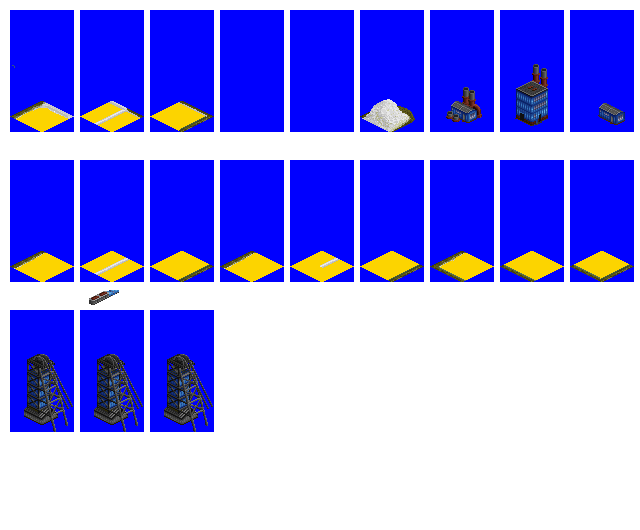
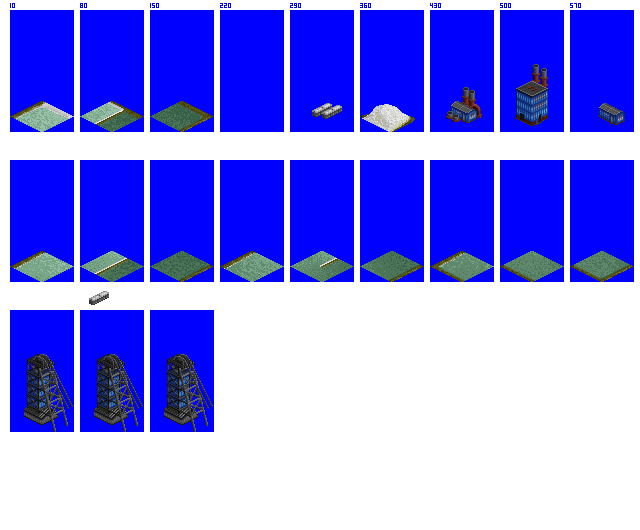
New Potash Mine graphics

diff --git a/src/industries/potash_mine.py b/src/industries/potash_mine.py
@@ -80,34 +80,55 @@ spriteset_headgear_animated = industry.add_spriteset(
     custom_sprite_selector="(animation_frame % 3)",
 )
 spriteset_hut_vents = industry.add_spriteset(
-    sprites=[(150, 10, 64, 122, -31, -90)],
+    sprites=[(430, 10, 64, 122, -31, -90)],
 )
 spriteset_mineral_pile = industry.add_spriteset(
-    sprites=[(220, 10, 64, 122, -31, -90)],
-)
-spriteset_pool_1 = industry.add_spriteset(
-    sprites=[(220, 160, 64, 122, -31, -90)],
-)
-spriteset_pool_2 = industry.add_spriteset(
-    sprites=[(290, 160, 64, 122, -31, -90)],
-)
-spriteset_pool_3 = industry.add_spriteset(
-    sprites=[(360, 160, 64, 122, -31, -90)],
-)
-spriteset_pool_4 = industry.add_spriteset(
-    sprites=[(430, 160, 64, 122, -31, -90)],
-)
-spriteset_pool_5 = industry.add_spriteset(
-    sprites=[(500, 160, 64, 122, -31, -90)],
-)
-spriteset_pool_6 = industry.add_spriteset(
-    sprites=[(570, 160, 64, 122, -31, -90)],
-)
-spriteset_winding_house = industry.add_spriteset(
     sprites=[(360, 10, 64, 122, -31, -90)],
 )
+spriteset_winding_house = industry.add_spriteset(
+    sprites=[(500, 10, 64, 122, -31, -90)],
+)
 spriteset_shed = industry.add_spriteset(
-    sprites=[(430, 10, 64, 122, -31, -90)],
+    sprites=[(570, 10, 64, 122, -31, -90)],
+)
+spriteset_containers = industry.add_spriteset(
+    sprites=[(290, 10, 64, 122, -31, -90)],
+)
+spriteset_pool_1 = industry.add_spriteset(
+    sprites=[(10, 10, 64, 122, -31, -90)],
+)
+spriteset_pool_2 = industry.add_spriteset(
+    sprites=[(80, 10, 64, 122, -31, -90)],
+)
+spriteset_pool_3 = industry.add_spriteset(
+    sprites=[(150, 10, 64, 122, -31, -90)],
+)
+spriteset_pool_4 = industry.add_spriteset(
+    sprites=[(10, 160, 64, 122, -31, -90)],
+)
+spriteset_pool_5 = industry.add_spriteset(
+    sprites=[(80, 160, 64, 122, -31, -90)],
+)
+spriteset_pool_6 = industry.add_spriteset(
+    sprites=[(150, 160, 64, 122, -31, -90)],
+)
+spriteset_pool_7 = industry.add_spriteset(
+    sprites=[(220, 160, 64, 122, -31, -90)],
+)
+spriteset_pool_8 = industry.add_spriteset(
+    sprites=[(290, 160, 64, 122, -31, -90)],
+)
+spriteset_pool_9 = industry.add_spriteset(
+    sprites=[(360, 160, 64, 122, -31, -90)],
+)
+spriteset_pool_10 = industry.add_spriteset(
+    sprites=[(430, 160, 64, 122, -31, -90)],
+)
+spriteset_pool_11 = industry.add_spriteset(
+    sprites=[(500, 160, 64, 122, -31, -90)],
+)
+spriteset_pool_12 = industry.add_spriteset(
+    sprites=[(570, 160, 64, 122, -31, -90)],
 )
 sprite_smoke_1 = industry.add_smoke_sprite(
     smoke_type="dark_smoke_small",
@@ -153,6 +174,29 @@ industry.add_spritelayout(
     add_to_object_num=5,
 )
 industry.add_spritelayout(
+    id="potash_mine_spritelayout_winding_house",
+    tile="potash_mine_tile_2",
+    ground_sprite=sprite_ground,
+    ground_overlay=sprite_ground_overlay,
+    building_sprites=[spriteset_winding_house],
+    smoke_sprites=[sprite_smoke_1, sprite_smoke_2],
+    add_to_object_num=2,
+)
+industry.add_spritelayout(
+    id="potash_mine_spritelayout_shed_1",
+    tile="potash_mine_tile_2",
+    ground_sprite=sprite_ground,
+    ground_overlay=sprite_ground_overlay,
+    building_sprites=[spriteset_shed],
+)
+industry.add_spritelayout(
+    id="potash_mine_spritelayout_containers",
+    tile="potash_mine_tile_2",
+    ground_sprite=sprite_ground,
+    ground_overlay=sprite_ground_overlay,
+    building_sprites=[spriteset_containers],
+)
+industry.add_spritelayout(
     id="potash_mine_spritelayout_pool_1",
     tile="potash_mine_tile_2",
     ground_sprite=sprite_ground,
@@ -195,20 +239,46 @@ industry.add_spritelayout(
     building_sprites=[spriteset_pool_6],
 )
 industry.add_spritelayout(
-    id="potash_mine_spritelayout_winding_house",
+    id="potash_mine_spritelayout_pool_7",
     tile="potash_mine_tile_2",
     ground_sprite=sprite_ground,
     ground_overlay=sprite_ground_overlay,
-    building_sprites=[spriteset_winding_house],
-    smoke_sprites=[sprite_smoke_1, sprite_smoke_2],
-    add_to_object_num=2,
+    building_sprites=[spriteset_pool_7],
 )
 industry.add_spritelayout(
-    id="potash_mine_spritelayout_shed_1",
+    id="potash_mine_spritelayout_pool_8",
     tile="potash_mine_tile_2",
     ground_sprite=sprite_ground,
     ground_overlay=sprite_ground_overlay,
-    building_sprites=[spriteset_shed],
+    building_sprites=[spriteset_pool_8],
+)
+industry.add_spritelayout(
+    id="potash_mine_spritelayout_pool_9",
+    tile="potash_mine_tile_2",
+    ground_sprite=sprite_ground,
+    ground_overlay=sprite_ground_overlay,
+    building_sprites=[spriteset_pool_9],
+)
+industry.add_spritelayout(
+    id="potash_mine_spritelayout_pool_10",
+    tile="potash_mine_tile_2",
+    ground_sprite=sprite_ground,
+    ground_overlay=sprite_ground_overlay,
+    building_sprites=[spriteset_pool_10],
+)
+industry.add_spritelayout(
+    id="potash_mine_spritelayout_pool_11",
+    tile="potash_mine_tile_2",
+    ground_sprite=sprite_ground,
+    ground_overlay=sprite_ground_overlay,
+    building_sprites=[spriteset_pool_11],
+)
+industry.add_spritelayout(
+    id="potash_mine_spritelayout_pool_12",
+    tile="potash_mine_tile_2",
+    ground_sprite=sprite_ground,
+    ground_overlay=sprite_ground_overlay,
+    building_sprites=[spriteset_pool_12],
 )
 industry.add_industry_layout(
     id="potash_mine_industry_layout_1",
@@ -216,15 +286,22 @@ industry.add_industry_layout(
         (0, 0, "potash_mine_spritelayout_tile_empty"),
         (0, 1, "potash_mine_spritelayout_headgear_animated"),
         (0, 2, "potash_mine_spritelayout_winding_house"),
-        (1, 0, "potash_mine_spritelayout_shed_1"),
+        (1, 0, "potash_mine_spritelayout_containers"),
         (1, 1, "potash_mine_spritelayout_mineral_pile"),
         (1, 2, "potash_mine_spritelayout_hut_vents"),
         (2, 0, "potash_mine_spritelayout_tile_empty"),
         (2, 1, "potash_mine_spritelayout_pool_1"),
         (2, 2, "potash_mine_spritelayout_pool_2"),
-        (3, 1, "potash_mine_spritelayout_pool_3"),
-        (3, 2, "potash_mine_spritelayout_pool_4"),
-        (4, 1, "potash_mine_spritelayout_pool_5"),
-        (4, 2, "potash_mine_spritelayout_pool_6"),
+        (2, 3, "potash_mine_spritelayout_pool_3"),
+        (3, 0, "potash_mine_spritelayout_shed_1"),
+        (3, 1, "potash_mine_spritelayout_pool_4"),
+        (3, 2, "potash_mine_spritelayout_pool_5"),
+        (3, 3, "potash_mine_spritelayout_pool_6"),
+        (4, 1, "potash_mine_spritelayout_pool_7"),
+        (4, 2, "potash_mine_spritelayout_pool_8"),
+        (4, 3, "potash_mine_spritelayout_pool_9"),
+        (5, 1, "potash_mine_spritelayout_pool_10"),
+        (5, 2, "potash_mine_spritelayout_pool_11"),
+        (5, 3, "potash_mine_spritelayout_pool_12"),
     ],
 )
